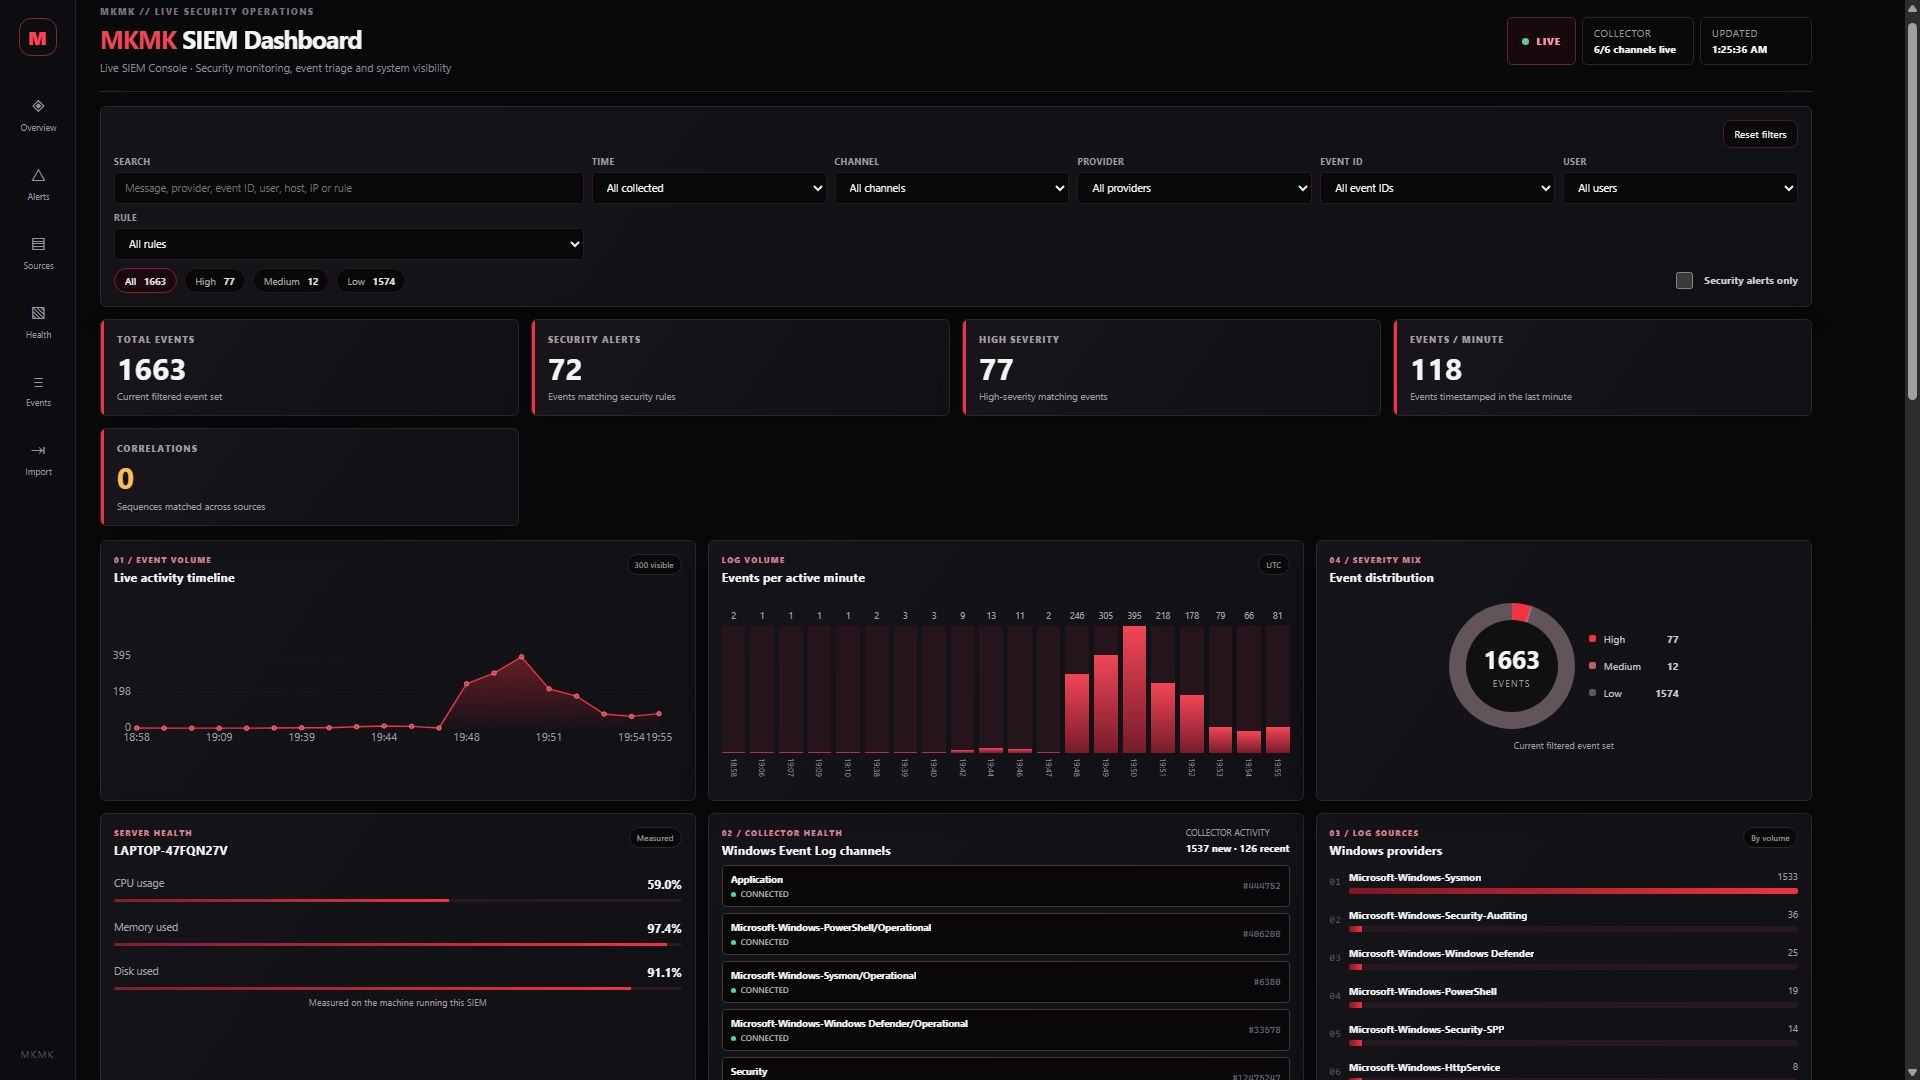
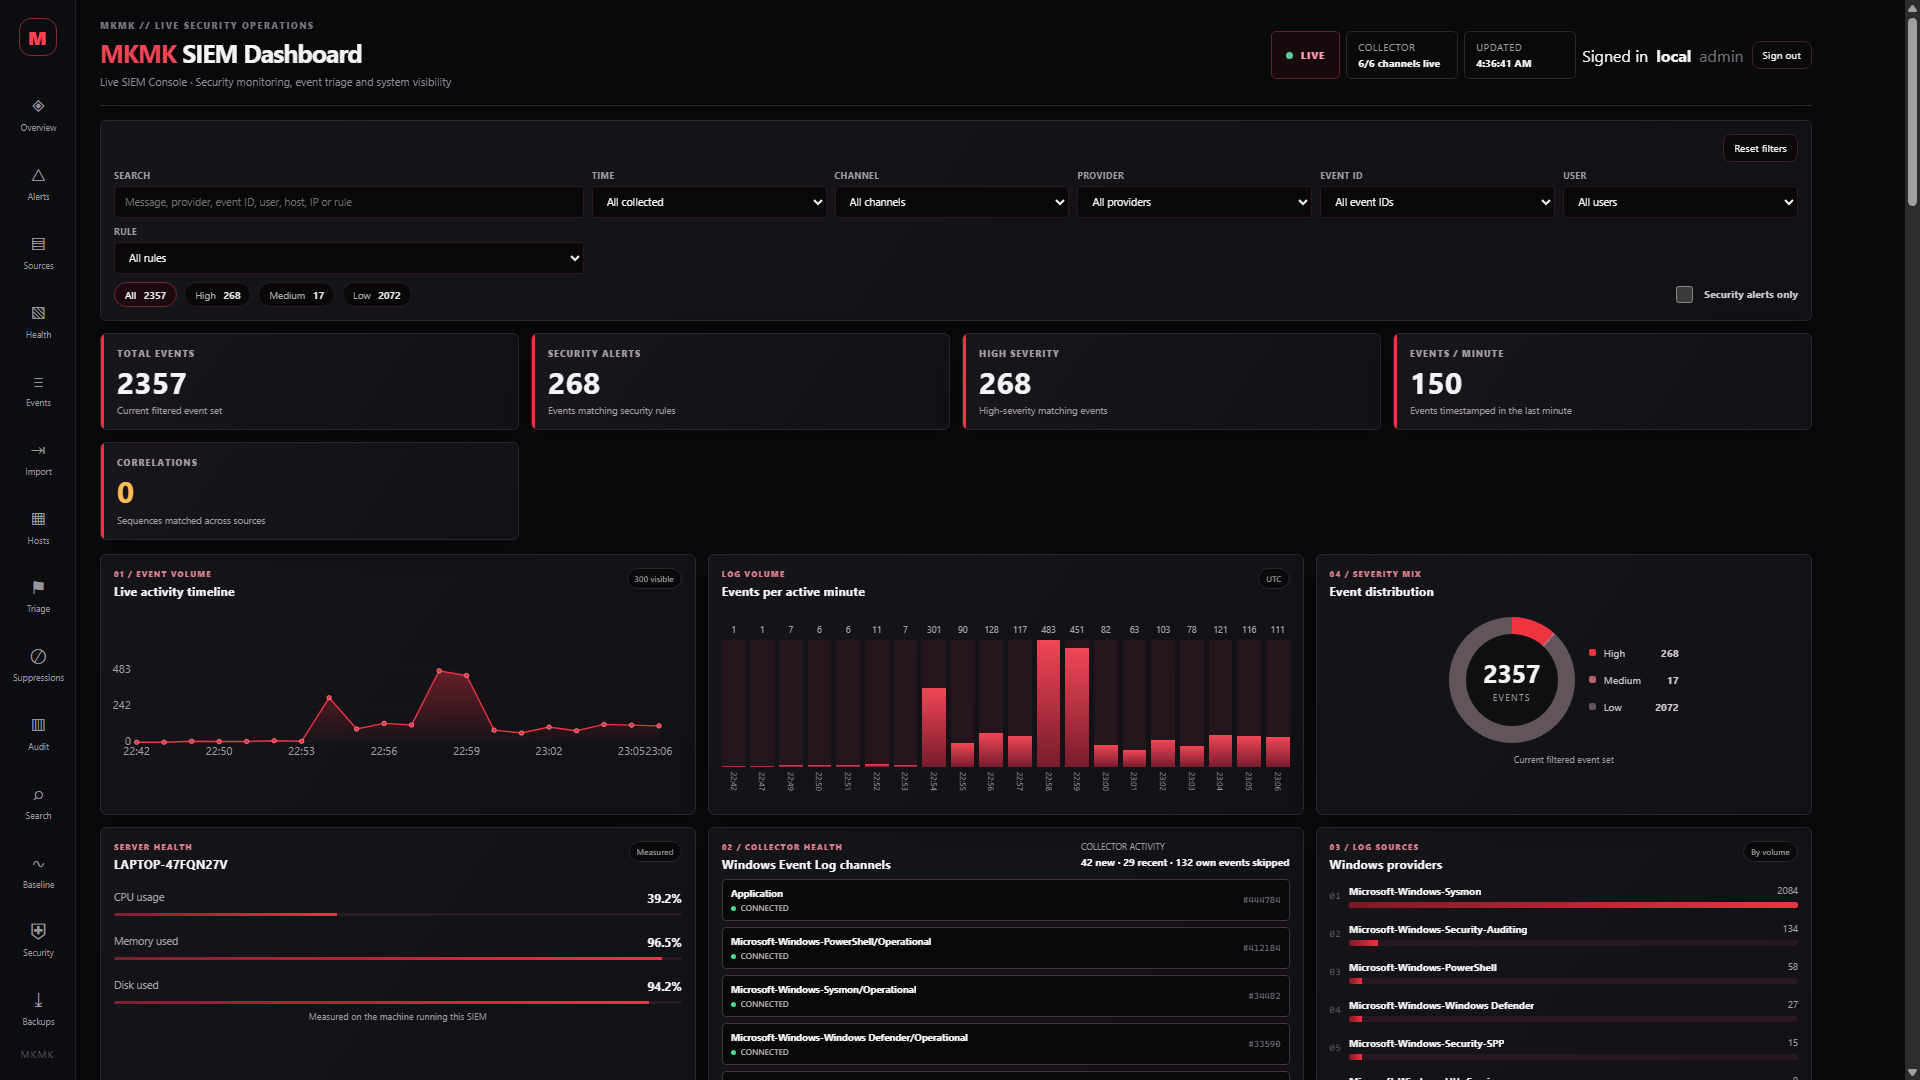
Show the panels that were only described
The three screenshots on the page were taken before accounts, triage, search,
baselining, lockout, MFA and backups existed, and the README said so in a
sentence. Seven current ones replace them and cover the rest of the console:
the overview, the detection queue, the event stream with the ingestion and host
panels, the triage queue above the suppression rules and the audit log, search
and the baselines, the lockout and MFA panel above the backups, and the
first-run card.

The caveat sentence is gone because it is no longer true, and each new image is
placed with the prose that explains what it shows rather than collected at the
end. Claiming a console gets its own short subsection, since a card that asks
for the first administrator is the one screen a reader will meet first and the
one the README described least.

diff --git a/PROJECTS/siem-dashboard/README.md b/PROJECTS/siem-dashboard/README.md
@@ -49,7 +49,7 @@ python -m src.agent --server http://siem.example:5000 --host-id web-01 --key hk_
 
 The page updates from the current contents of the database, so nothing on it is decorative. Counts, severity breakdowns, events-per-minute, timelines, providers, Event IDs, rule hits, ATT&CK techniques, the correlation panel and the event table are all computed from stored records, and the search, time, channel, provider, Event ID, user, rule, severity and alerts-only filters apply to everything on screen.
 
-The console now has eight parts beyond the overview, described at the end of this section: a sign-in view, a monitored-hosts panel, a detection triage queue with an investigation record, a suppression manager with an audit log, and the four wave-two panels — indexed event search, per-host baselining, lockout and multi-factor authentication, and backups. The three screenshots below were taken on a run from before accounts and triage existed, so they show the collection, alerting and event-stream panels that are still on the page rather than the newer ones. The numbers are odd and specific because they come from one live machine; yours will differ, and the panels will not.
+The console now has eight parts beyond the overview, described at the end of this section: a sign-in view, a monitored-hosts panel, a detection triage queue with an investigation record, a suppression manager with an audit log, and the four wave-two panels — indexed event search, per-host baselining, lockout and multi-factor authentication, and backups. The screenshots below all come from one run on a single laptop, so the numbers are odd and specific; yours will differ, and the panels will not.
 
 ### The overview
 
@@ -91,6 +91,8 @@ At the bottom, the ingestion panel is where additional sources arrive — a JSON
 
 ### The hosts, triage, suppression and audit panels
 
+![The triage queue with its status filters and paging, above the suppression rules and the activity audit](docs/screenshots/04-triage-and-suppression.png)
+
 **Monitored hosts** lists every enrolled agent with a computed status — `online`, `stale` or `never-reported` — how long ago it was last seen and how many events it has sent. A host that has never reported reads as `never-reported` rather than as a failure, and the status is computed from the last-seen time when the panel is read, so a machine that is switched off stays `online` until the stale window passes.
 
 **Detection triage** is the queue an analyst works. Each row is a stored detection with its status, its assignee and its notes; opening one shows the investigation record, and a note is appended, never edited. A detection moves through `new`, `acknowledged`, `investigating`, `closed` and `false_positive`, and every move is kept in the history.
@@ -101,6 +103,8 @@ At the bottom, the ingestion panel is where additional sources arrive — a JSON
 
 ### The search, baseline, security and backup panels
 
+![Event search with its query grammar and engine report, above the behaviour baselines and the deviation table](docs/screenshots/05-search-and-baseline.png)
+
 **Event search** is the indexed query language described below, a grammar over hosts, severity, channel, rule, user, source address, message and time, with wildcards, quoting and negation. It shows which engine answered the query, and when the fallback ran it says so rather than implying the search was indexed.
 
 **Baselining** lists what is normal for each host and key, and the deviations panel shows the keys whose recent volume sits furthest above their own baseline, with the observed and expected counts, the standard deviation and the sigma distance. A key with too little history is reported as insufficient rather than judged.
@@ -109,7 +113,15 @@ At the bottom, the ingestion panel is where additional sources arrive — a JSON
 
 **Backups** lists the snapshots of the store, with a control to take one now and a control to verify one.
 
+![The security panel with active lockouts, failed sign-ins and MFA enrolment, above the backup list](docs/screenshots/06-security-and-backups.png)
+
 These panels respect the role as the older ones do: a viewer sees the lockout-clear, MFA, rebuild and backup controls hidden, with the reason stated, rather than as buttons the server would refuse.
+
+### Claiming a console
+
+![The first-run card, asking for the first administrator's name and a password](docs/screenshots/07-first-run.png)
+
+A console with no accounts shows this card rather than a sign-in form, because there is nothing yet to sign in with. Filling it in creates the first administrator and signs you in with it; the link below it leaves the console open on loopback, which is the documented lab default. The card is the only time this console will offer to create an account for you — once one exists the endpoint refuses, and further accounts come from an administrator.
 
 ## Detection rules are data, not code
 
